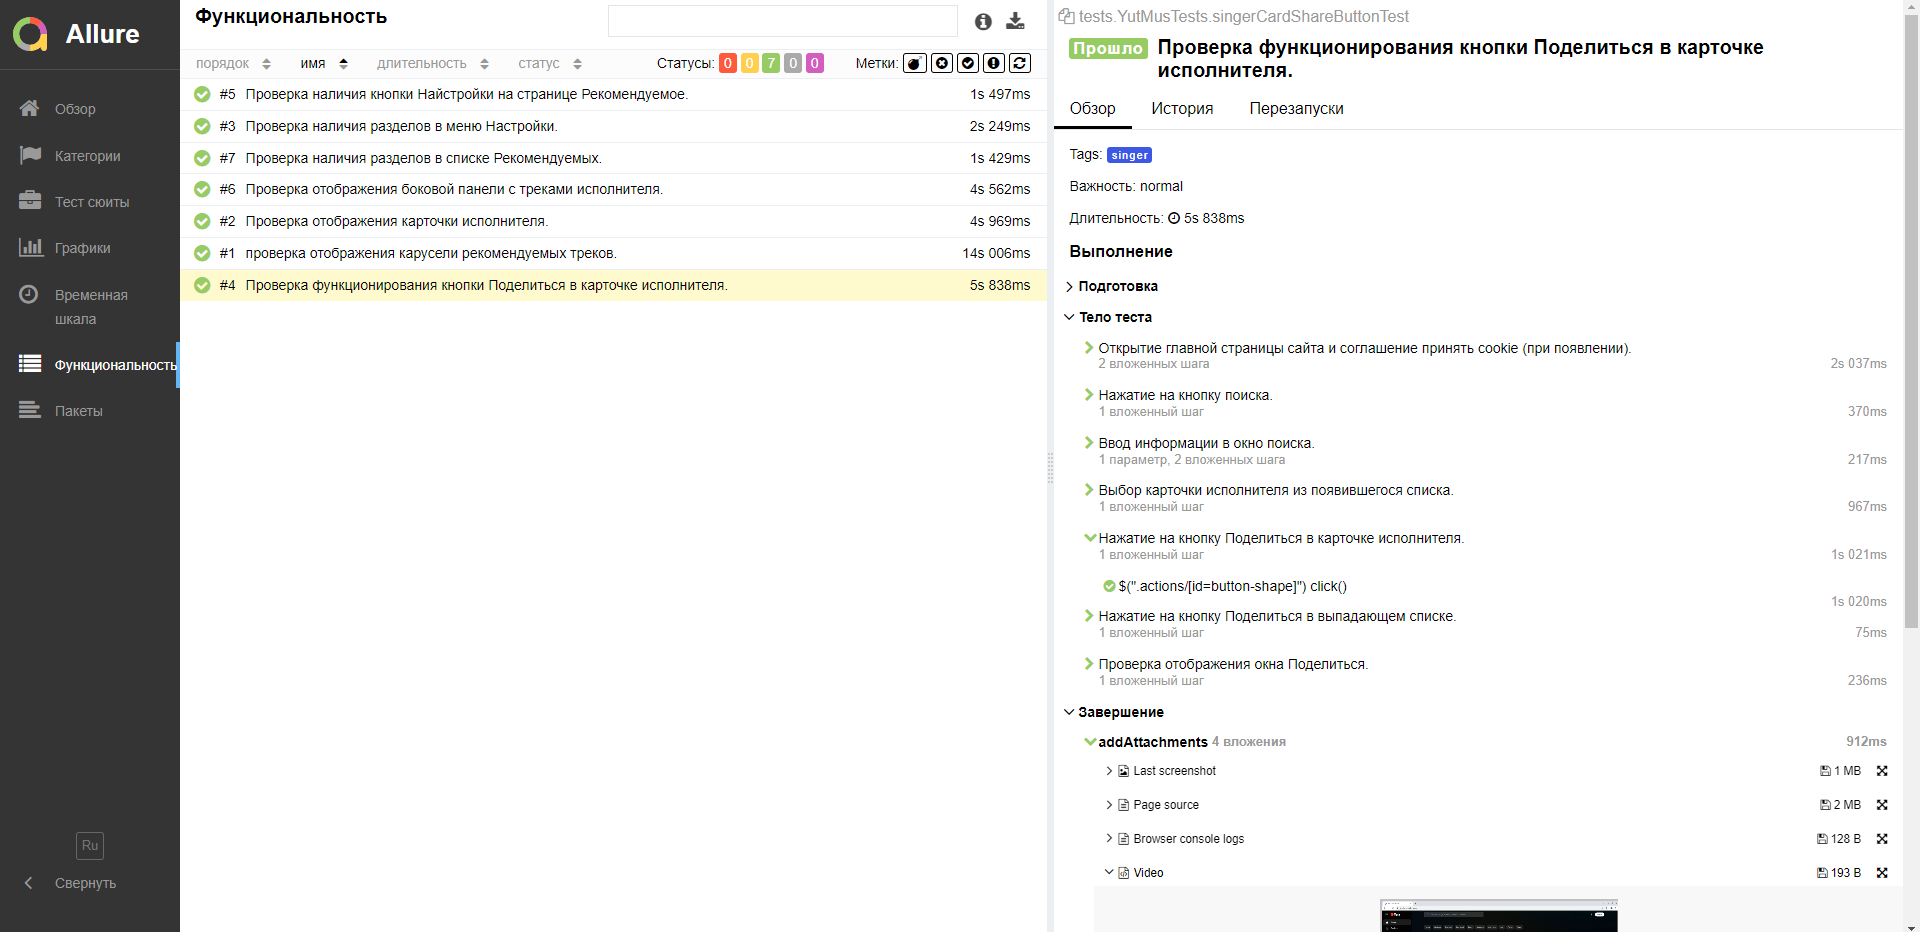
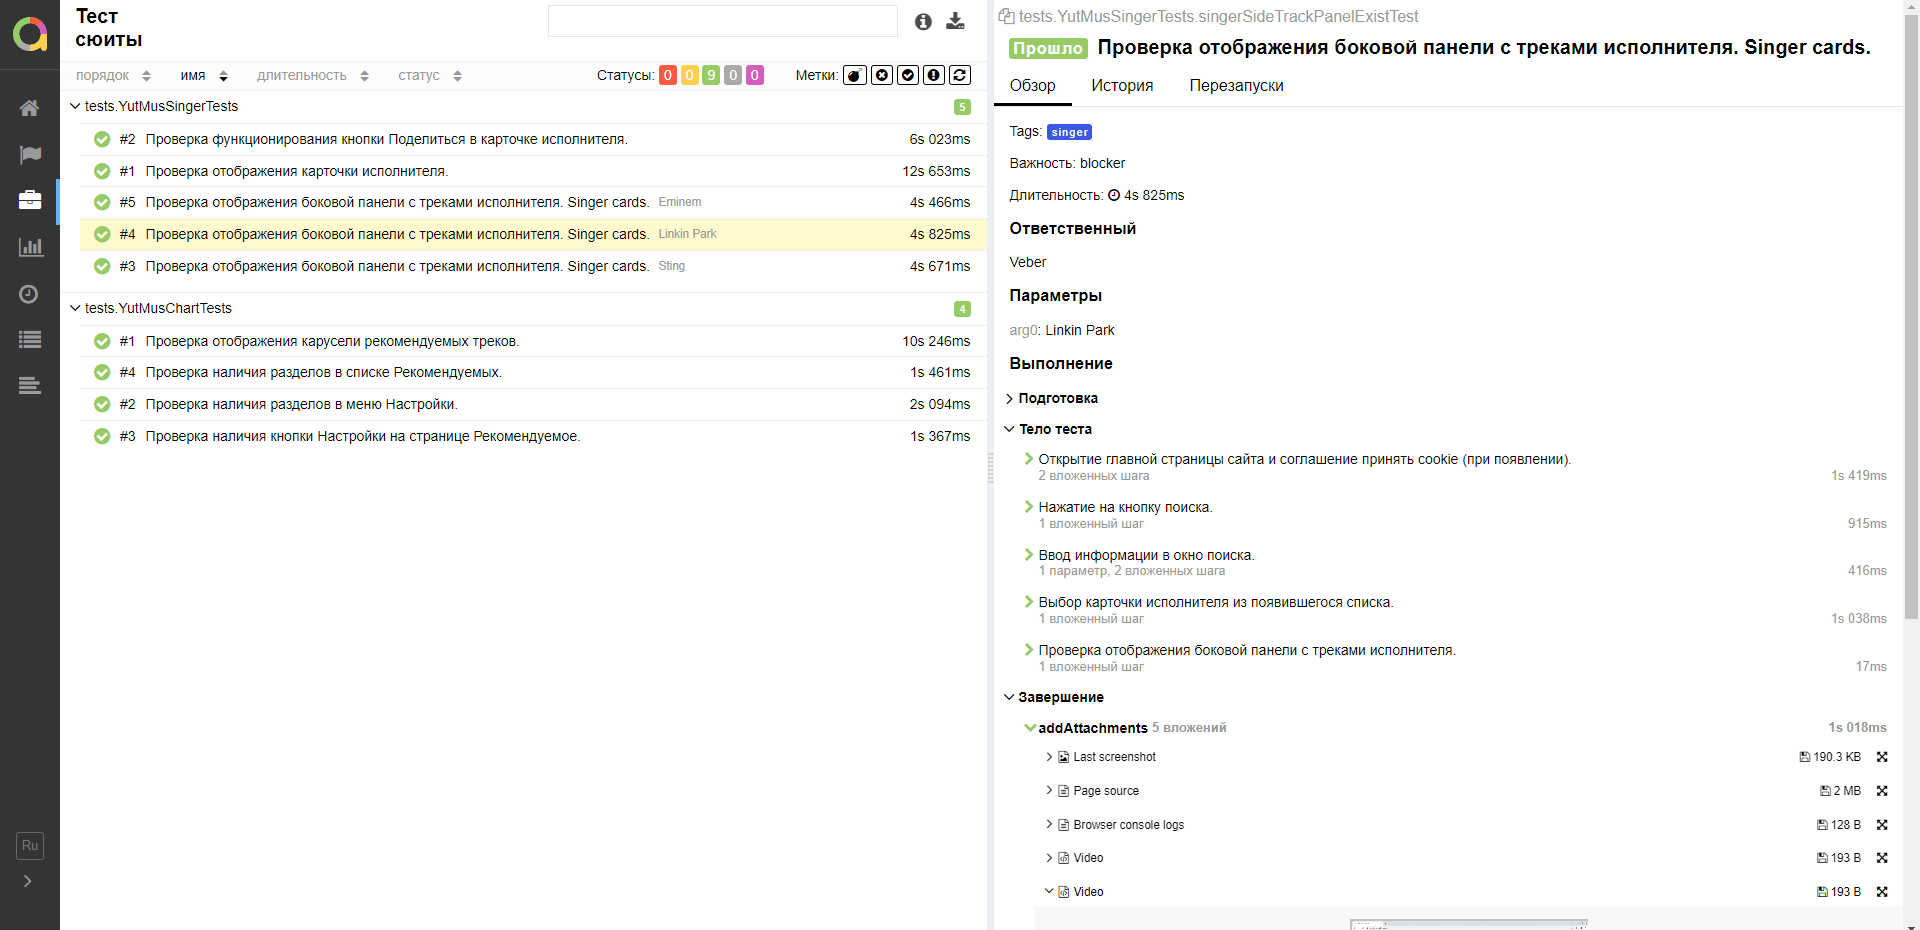
обновить скриншоты и описание

diff --git a/README.md b/README.md
@@ -64,7 +64,7 @@
 ---
 <a id="allureReport"></a>
 
-## [Allure](https://jenkins.autotests.cloud/job/VeberUIDiplom/8/allure/) отчет
+## [Allure](https://jenkins.autotests.cloud/job/VeberUIDiplom/12/allure/) отчет
 
 ### Главная страница отчета
 
@@ -76,6 +76,12 @@
 
 <p align="center">
 <img src="media/alluresuits.png" alt="Test Case">
+</p>
+
+### Графики
+
+<p align="center">
+<img src="media/alluregraph.png" alt="Test Case">
 </p>
 
 ---
